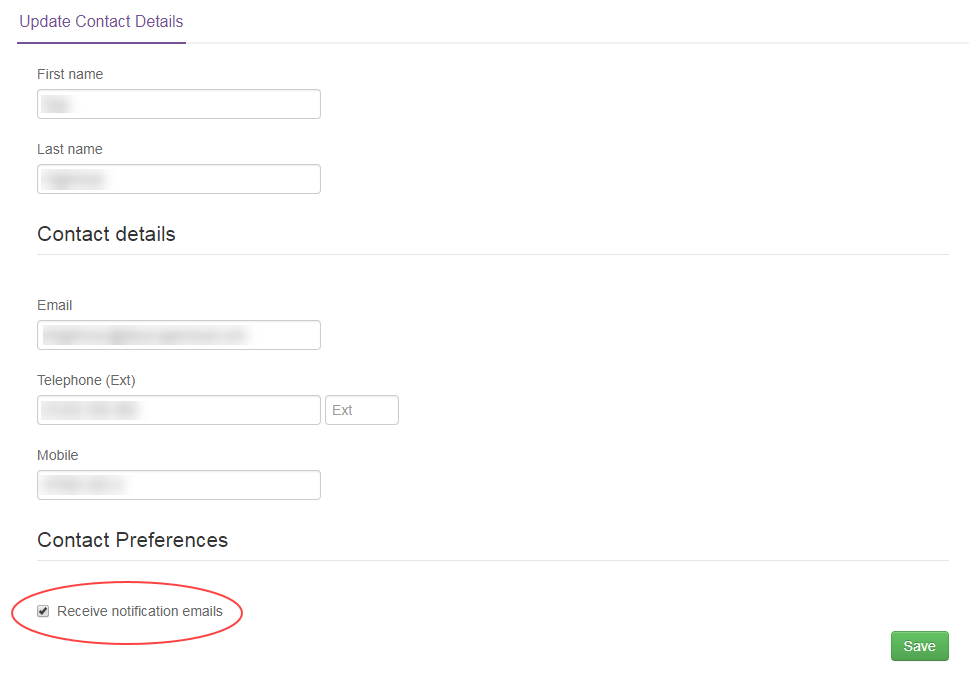
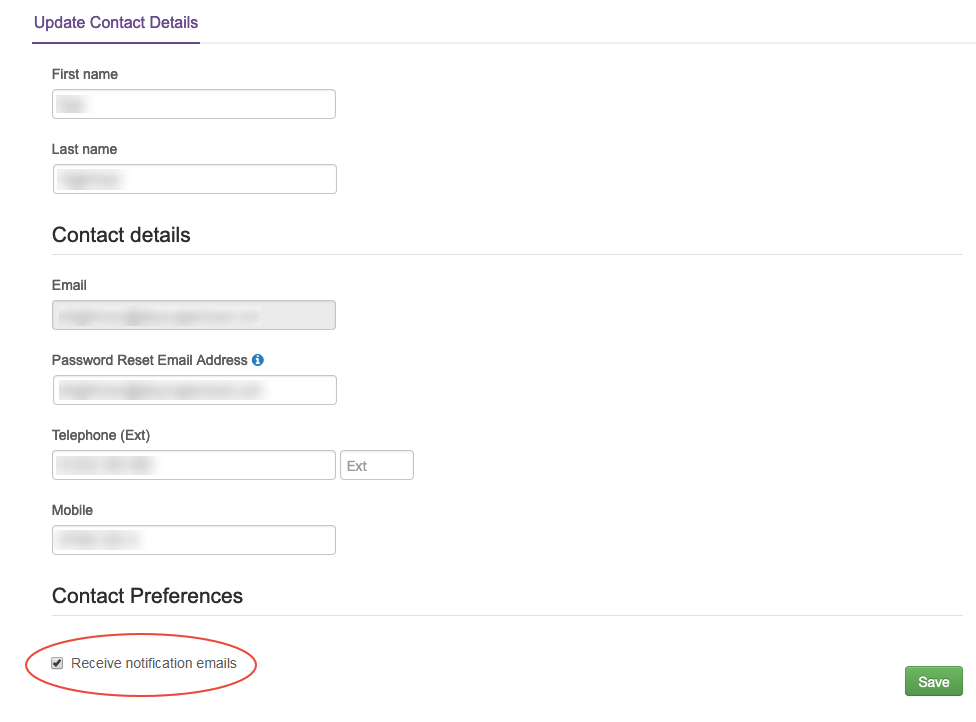
Update for Password Reset Email Address
Portal users can now set a different email address to be used when they
forget their password.

Internal ticket ref: SENG-291

diff --git a/articles/portal/ptl-gs.md b/articles/portal/ptl-gs.md
@@ -111,7 +111,7 @@ In the toolbar, you can also click your username to access the following options
     > [!TIP]
     > The number next to the **Notifications** menu option (and next to your username in the toolbar) shows how many unread notifications you have.
 
-- **Update contact details** - Change your name and telephone numbers. You can also opt to have Portal notifications sent to your email address.
+- **Update contact details** - Change your name and telephone numbers, opt to have Portal notifications sent to your email address, or set a different email address to be used if you forget your password.
 
 - **Change Password** - Change your password or memorable word. We recommend that you change your password at least every 90 days (see [*How to reset your UKCloud Portal password or memorable word*](ptl-how-reset-password.md)).
 
